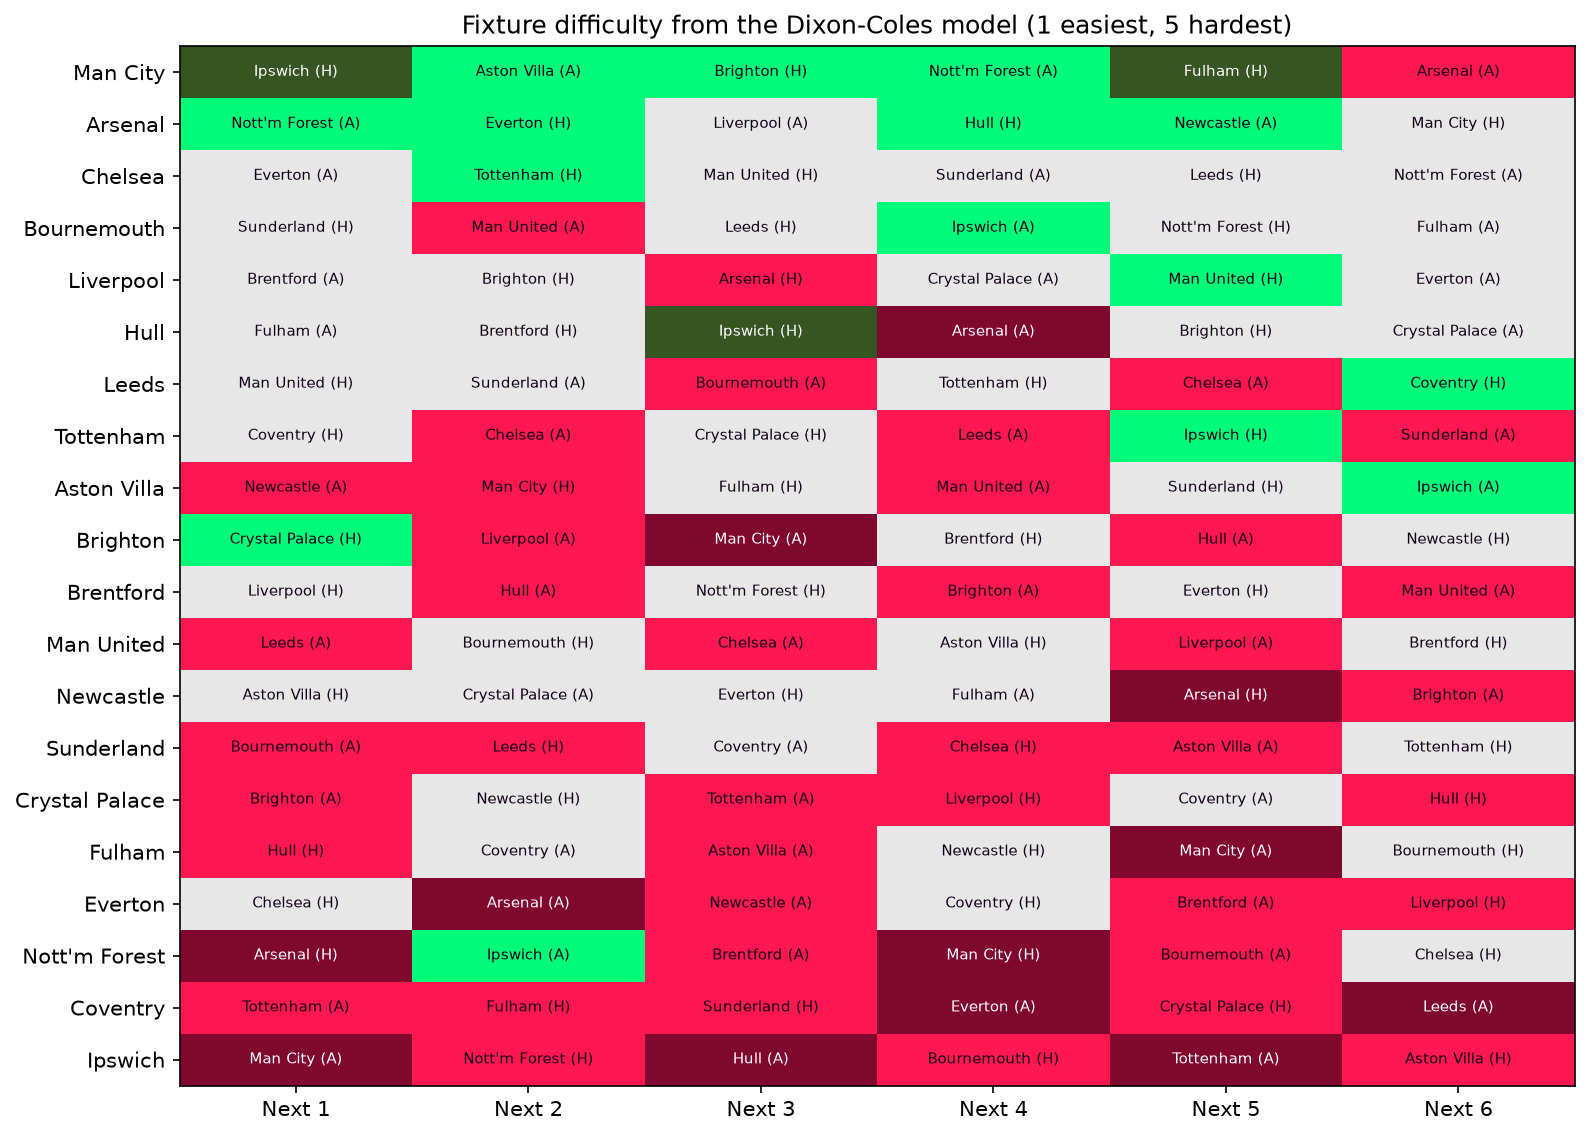
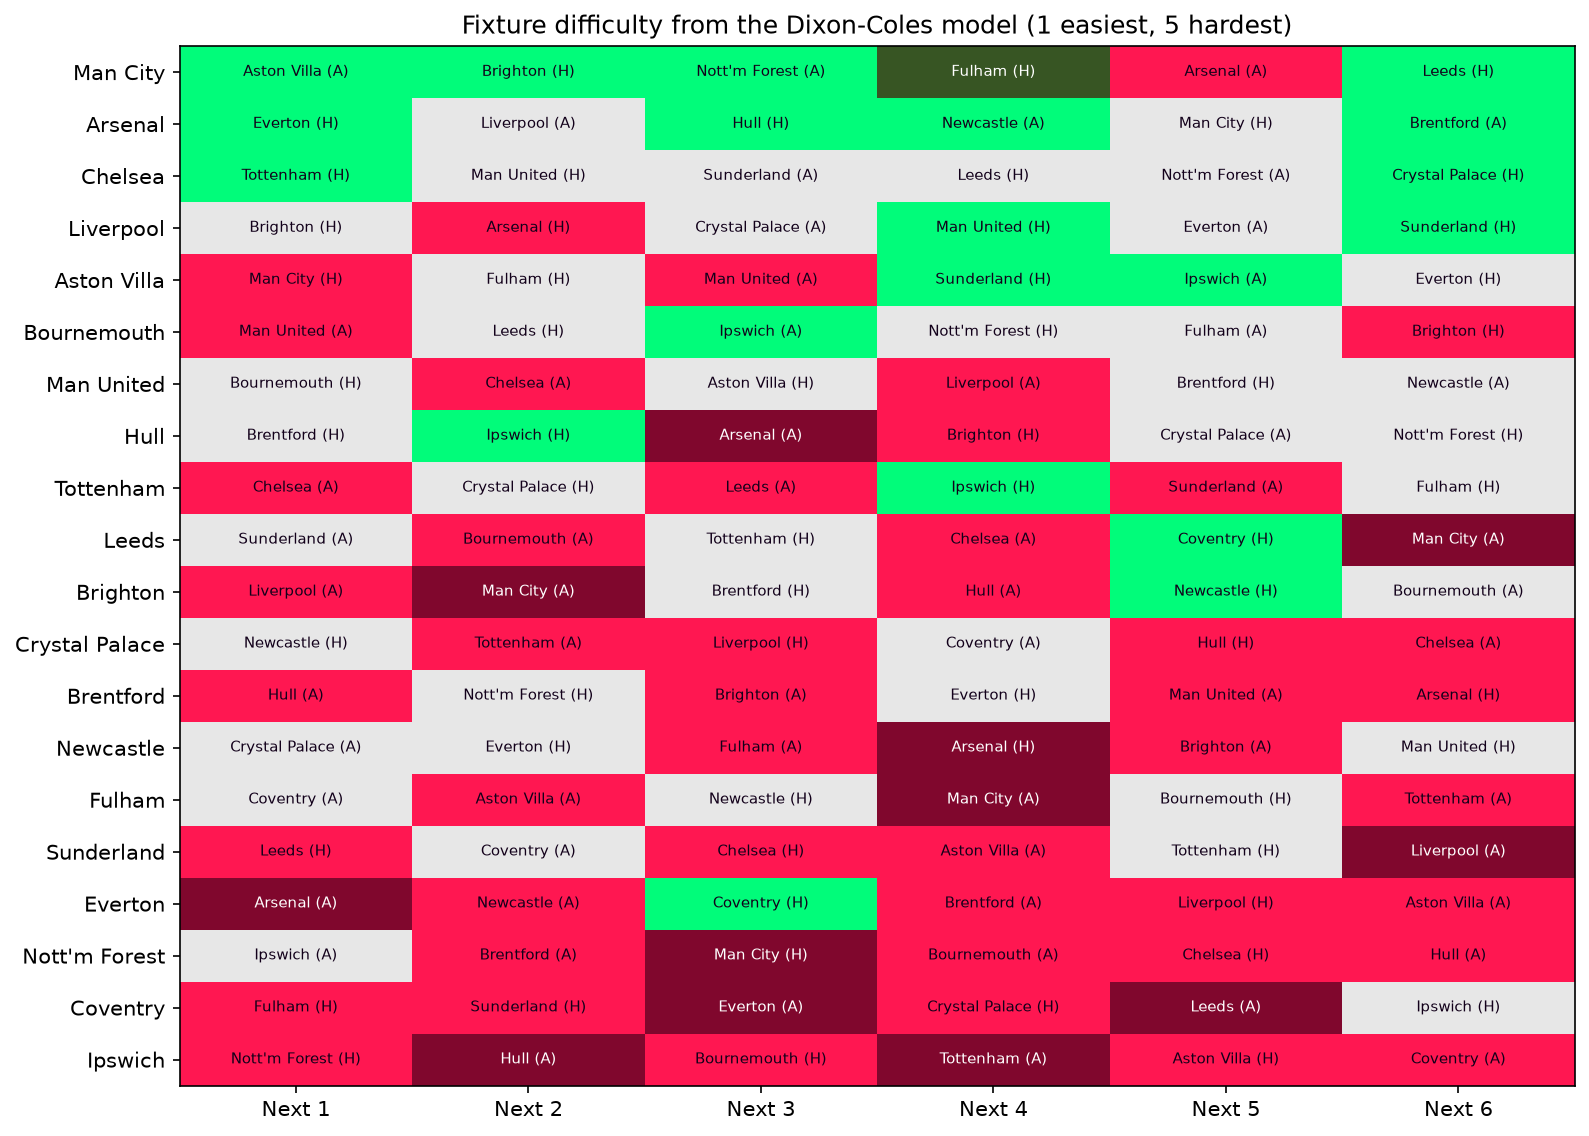
README and weekly runs updated

diff --git a/modelling/match/fdr.py b/modelling/match/fdr.py
@@ -1,5 +1,7 @@
 """FPL add-on: fixture difficulty (1 easiest - 5 hardest) for each team's next fixtures."""
 
+import argparse
+import json
 import logging
 from datetime import date
 
@@ -31,17 +33,54 @@ def difficulty(p_win: float) -> int:
     return 5
 
 
-def main() -> None:
+def csv_inputs(s) -> tuple[pd.DataFrame, pd.DataFrame]:
+    """Results and unplayed fixtures without the database (for GitHub Actions): football-data
+    results, and the FPL fixture list (python -m data.ingest.fpl must have run first)."""
+    from data.build_warehouse import name_lookup
+    from modelling.match.fpl_squad import results_from_csv
+
+    folder = s.raw / "fpl"
+    read = lambda n: json.loads((folder / f"{n}.json").read_text(encoding="utf-8"))  # noqa: E731
+    boot, fixtures, lookup = read("bootstrap-static"), read("fixtures"), name_lookup(s, "fpl")
+    name = {t["id"]: lookup.get(t["name"], t["name"]) for t in boot["teams"]}
+    rows = [
+        {
+            "match_date": pd.Timestamp(f["kickoff_time"] or "2100-01-01").tz_localize(None),
+            "home_team": name[f["team_h"]],
+            "away_team": name[f["team_a"]],
+        }
+        for f in fixtures
+        if f["event"]
+    ]
+    results = results_from_csv(s)
+    # FPL marks a game finished only after bonus points, so the results are the played list
+    start = pd.Timestamp(
+        current_season_start(start_month=s.season_start_month), s.season_start_month, 1
+    )
+    played = results.loc[results["match_date"] >= start, ["home_team", "away_team"]]
+    merged = pd.DataFrame(rows).merge(
+        played, on=["home_team", "away_team"], how="left", indicator=True
+    )
+    return results, merged[merged["_merge"] == "left_only"].drop(columns="_merge")
+
+
+def main(argv=None) -> None:
+    parser = argparse.ArgumentParser(description="Fixture difficulty picture")
+    parser.add_argument("--from-csv", action="store_true", help="no database")
+    args = parser.parse_args(argv)
     s = load_settings()
     setup_logging(s.logs)
     m = s.modelling
-    engine = make_engine()
-    season = season_label(current_season_start(start_month=s.season_start_month))
-    results = load_results(engine)
+    if args.from_csv:
+        results, remaining = csv_inputs(s)
+    else:
+        engine = make_engine()
+        season = season_label(current_season_start(start_month=s.season_start_month))
+        results = load_results(engine)
+        remaining = remaining_fixtures(load_fixtures(engine, season), results, season)
     model = fit_dixon_coles(
         results, date.today(), m["dc_xi"], m["dc_history_days"], m["dc_max_goals"]
     )
-    remaining = remaining_fixtures(load_fixtures(engine, season), results, season)
     remaining = remaining.sort_values("match_date")
 
     rows = []

diff --git a/serving/monitor/report.py b/serving/monitor/report.py
@@ -5,6 +5,7 @@ python -m serving.monitor.report
 
 import json
 import logging
+import re
 from datetime import date
 
 from data.common.config import ROOT, load_settings
@@ -14,6 +15,7 @@ from serving.monitor import drift, tracking
 
 log = logging.getLogger("serving.monitor")
 REPORTS = ROOT / "serving" / "reports"
+README = ROOT / "README.md"
 
 
 def performance_lines(perf: dict | None) -> list[str]:
@@ -65,6 +67,21 @@ def status_page(run: dict, table: dict, html_written: bool, perf: dict | None = 
     return "\n".join(lines) + "\n"
 
 
+def summary_table(page: str) -> str:
+    """The Item / Value table at the top of the status page."""
+    return page[page.index("| Item | Value |") :].split("\n\n", 1)[0]
+
+
+def splice_readme(readme: str, table: str) -> str:
+    """Replace what sits between the status markers in README.md (left alone if none)."""
+    return re.sub(
+        r"(<!-- status:start -->).*?(<!-- status:end -->)",
+        lambda m: f"{m.group(1)}\n{table}\n{m.group(2)}",
+        readme,
+        flags=re.S,
+    )
+
+
 def main() -> None:
     s = load_settings()
     setup_logging(s.logs)
@@ -89,6 +106,9 @@ def main() -> None:
     perf = json.loads(perf_file.read_text(encoding="utf-8")) if perf_file.exists() else None
     page = status_page(run, table, html_written, perf)
     (REPORTS / "STATUS.md").write_text(page, encoding="utf-8")
+    if README.exists():
+        readme = README.read_text(encoding="utf-8")
+        README.write_text(splice_readme(readme, summary_table(page)), encoding="utf-8")
     params, metrics, tags = tracking.flatten(run, table)
     if perf:
         tags["performance_level"] = perf["level"]

diff --git a/README.md b/README.md
@@ -302,6 +302,11 @@ P2's match model, running without me: every Thursday a scheduled job downloads t
 - [Runbook](serving/RUNBOOK.md): how to operate it and what to do when an alert fires.
 - [System description](serving/SYSTEM.md): design, policy, measurements and limits.
 
+Latest weekly run (updated by the weekly job):
+
+<!-- status:start -->
+<!-- status:end -->
+
 ```
  GitHub Actions, Thursday 06:17 UTC
         │
